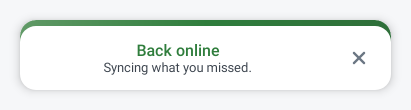
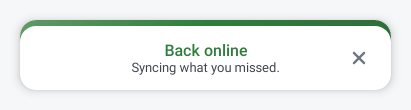
fix: clean up code

Changed region(s): [[0.2336, 0.5455, 0.6715, 0.6818], [0.3212, 0.3818, 0.6131, 0.5182]]

diff --git a/app/src/main/java/com/thecode/sample/CatalogScreen.kt b/app/src/main/java/com/thecode/sample/CatalogScreen.kt
@@ -15,7 +15,10 @@ import androidx.compose.foundation.layout.safeDrawing
 import androidx.compose.foundation.layout.windowInsetsPadding
 import androidx.compose.foundation.lazy.LazyColumn
 import androidx.compose.foundation.lazy.items
+import androidx.compose.foundation.selection.toggleable
 import androidx.compose.material3.Surface
+import androidx.compose.material3.Switch
+import androidx.compose.material3.SwitchDefaults
 import androidx.compose.material3.Text
 import androidx.compose.runtime.Composable
 import androidx.compose.runtime.LaunchedEffect
@@ -25,6 +28,7 @@ import androidx.compose.runtime.remember
 import androidx.compose.runtime.setValue
 import androidx.compose.ui.Alignment
 import androidx.compose.ui.Modifier
+import androidx.compose.ui.semantics.Role
 import androidx.compose.ui.unit.dp
 import com.thecode.aestheticdialogs.components.alert.AestheticAlertDialog
 import com.thecode.aestheticdialogs.components.alert.models.AlertDialogSignal
@@ -71,7 +75,7 @@ private const val LOREM = "Albums are stored on your device and encrypted before
 @Composable
 fun CatalogScreen(
     darkTheme: Boolean,
-    onToggleTheme: () -> Unit,
+    onDarkThemeChange: (Boolean) -> Unit,
     modifier: Modifier = Modifier,
 ) {
     val colors = AestheticDialogsTheme.colors
@@ -114,7 +118,7 @@ fun CatalogScreen(
             verticalArrangement = Arrangement.spacedBy(AestheticSpacing.sm),
         ) {
             item {
-                CatalogHeader(darkTheme = darkTheme, onToggleTheme = onToggleTheme)
+                CatalogHeader(darkTheme = darkTheme, onDarkThemeChange = onDarkThemeChange)
             }
 
             item {
@@ -377,7 +381,7 @@ fun CatalogScreen(
 @Composable
 private fun CatalogHeader(
     darkTheme: Boolean,
-    onToggleTheme: () -> Unit,
+    onDarkThemeChange: (Boolean) -> Unit,
 ) {
     val colors = AestheticDialogsTheme.colors
 
@@ -392,13 +396,50 @@ private fun CatalogHeader(
             style = AestheticDialogsTheme.typography.message,
             color = colors.content.secondary,
         )
-        Box(modifier = Modifier.padding(top = AestheticSpacing.md)) {
-            Pill(
-                label = if (darkTheme) "Dark theme" else "Light theme",
-                selected = true,
-                onClick = onToggleTheme,
+        DarkThemeSwitch(
+            checked = darkTheme,
+            onCheckedChange = onDarkThemeChange,
+            modifier = Modifier.padding(top = AestheticSpacing.md),
+        )
+    }
+}
+
+@Composable
+private fun DarkThemeSwitch(
+    checked: Boolean,
+    onCheckedChange: (Boolean) -> Unit,
+    modifier: Modifier = Modifier,
+) {
+    val colors = AestheticDialogsTheme.colors
+
+    Row(
+        modifier = modifier
+            .toggleable(
+                value = checked,
+                role = Role.Switch,
+                onValueChange = onCheckedChange,
             )
-        }
+            .padding(vertical = AestheticSpacing.sm),
+        verticalAlignment = Alignment.CenterVertically,
+        horizontalArrangement = Arrangement.spacedBy(AestheticSpacing.md),
+    ) {
+        Text(
+            text = "Dark theme",
+            style = AestheticDialogsTheme.typography.itemLabel,
+            color = colors.content.primary,
+        )
+        Switch(
+            checked = checked,
+            onCheckedChange = null,
+            colors = SwitchDefaults.colors(
+                checkedThumbColor = colors.action.onPrimary,
+                checkedTrackColor = colors.action.primary,
+                checkedBorderColor = colors.action.primary,
+                uncheckedThumbColor = colors.content.muted,
+                uncheckedTrackColor = colors.surface.container,
+                uncheckedBorderColor = colors.border.default,
+            ),
+        )
     }
 }
 

diff --git a/aestheticdialogs/src/main/java/com/thecode/aestheticdialogs/primitives/DialogFramePrimitive.kt b/aestheticdialogs/src/main/java/com/thecode/aestheticdialogs/primitives/DialogFramePrimitive.kt
@@ -86,18 +86,16 @@ internal fun DialogFramePrimitive(
         properties = DialogProperties(
             dismissOnBackPress = dismissBehavior.dismissOnBackPress,
             dismissOnClickOutside = dismissBehavior.dismissOnClickOutside,
-            // The library sizes its own surface: platform default width would
-            // clamp every dialog to the Material minimum and defeat the
-            // adaptive buckets below.
+            // The library sizes its own surface; the platform default would clamp
+            // every dialog to the Material minimum.
             usePlatformDefaultWidth = false,
         ),
     ) {
         DialogScrimEffect(scrimAlpha)
 
-        // BoxWithConstraints reports the window the dialog was actually given,
-        // which is the right question to ask: a phone in landscape, a foldable
-        // half-open and a freeform window all answer it correctly, where an
-        // `isTablet` check answers all three wrong.
+        // The constraints report the window the dialog was actually given, which
+        // is the question that has a correct answer on foldables and in freeform
+        // windows.
         BoxWithConstraints {
             val availableWidth = maxWidth
             val availableHeight = maxHeight
@@ -113,9 +111,8 @@ internal fun DialogFramePrimitive(
                 } else {
                     EnterTransition.None
                 },
-                // The caller owns whether the dialog is in the composition, so
-                // by the time an exit could run the node is already gone. See
-                // `docs/ARCHITECTURE.md` for why that trade-off is deliberate.
+                // The caller owns whether the dialog is composed, so by the time
+                // an exit could run the node is already gone.
                 exit = ExitTransition.None,
             ) {
                 Surface(
@@ -129,9 +126,6 @@ internal fun DialogFramePrimitive(
                         },
                     shape = shape,
                     color = containerColor,
-                    // Stated rather than derived from a Material scheme: the
-                    // library owns no `MaterialTheme` and must not read the host
-                    // application's.
                     contentColor = AestheticDialogsTheme.colors.content.primary,
                     tonalElevation = AestheticElevation.none,
                     shadowElevation = AestheticElevation.dialog,
@@ -145,9 +139,9 @@ internal fun DialogFramePrimitive(
                     ) {
                         header?.invoke(this)
 
-                        // `fill = false` lets short content stay short while long
-                        // content is capped and scrolls, keeping the action row
-                        // reachable on a small screen or at a large font size.
+                        // Short content stays short; long content is capped and
+                        // scrolls, so the action row stays reachable at any font
+                        // size.
                         Column(
                             modifier = Modifier
                                 .weight(weight = 1f, fill = false)

diff --git a/aestheticdialogs/src/main/java/com/thecode/aestheticdialogs/tokens/AestheticDimens.kt b/aestheticdialogs/src/main/java/com/thecode/aestheticdialogs/tokens/AestheticDimens.kt
@@ -14,12 +14,10 @@ public object AestheticDimens {
     /** Minimum size of any interactive target, per the Android accessibility guidance. */
     public val minTouchTarget: Dp = 48.dp
 
-    // Controls
     public val buttonHeight: Dp = 48.dp
     public val buttonMinWidth: Dp = 88.dp
     public val fieldHeight: Dp = 56.dp
 
-    // Icons
     public val iconSm: Dp = 16.dp
     public val iconMd: Dp = 24.dp
     public val iconLg: Dp = 32.dp
@@ -30,7 +28,6 @@ public object AestheticDimens {
     /** The compact status glyph used by notification banners. */
     public val statusGlyphCompact: Dp = 32.dp
 
-    // Structure
     public val borderWidth: Dp = 1.dp
 
     /** Thickness of the tone bar down the leading edge of a banner. */
@@ -46,10 +43,9 @@ public object AestheticDimens {
     public val progressIndicatorSize: Dp = 20.dp
     public val progressIndicatorStroke: Dp = 2.dp
 
-    // Adaptive width buckets. The dialog measures the space it was given and
-    // picks a bucket from it, rather than asking the device whether it is a
-    // "tablet": a phone in landscape, a foldable and a freeform window all
-    // resolve correctly this way.
+    // Width buckets are chosen from the space the dialog was given, never from a
+    // device class: a phone in landscape, a foldable and a freeform window all
+    // resolve correctly that way.
     public val breakpointMedium: Dp = 600.dp
     public val breakpointExpanded: Dp = 840.dp
 
@@ -63,4 +59,13 @@ public object AestheticDimens {
 
     /** Minimum height of a notification banner, so a one-line message still reads as a surface. */
     public val bannerMinHeight: Dp = 64.dp
+
+    /**
+     * Width a banner reserves for its trailing affordance.
+     *
+     * Mirrored on the leading edge when a banner centres its copy, so "centred"
+     * means centred in the card rather than in the space left over next to the
+     * close button.
+     */
+    public val bannerAffordanceSlot: Dp = minTouchTarget + AestheticSpacing.sm
 }

diff --git a/aestheticdialogs/src/main/java/com/thecode/aestheticdialogs/primitives/BannerPrimitive.kt b/aestheticdialogs/src/main/java/com/thecode/aestheticdialogs/primitives/BannerPrimitive.kt
@@ -75,8 +75,6 @@ internal fun BannerPrimitive(
             .semantics { liveRegion = liveRegionMode },
         shape = shape,
         color = containerColor,
-        // Stated rather than derived from a Material scheme: the library owns no
-        // `MaterialTheme` and must not read the host application's.
         contentColor = messageColor,
         shadowElevation = AestheticElevation.banner,
     ) {
@@ -124,13 +122,19 @@ internal fun BannerPrimitive(
                         Arrangement.Start
                     },
                 ) {
+                    // Without this mirror the copy centres in the space left of
+                    // the close button rather than in the card.
+                    if (centered && trailing != null) {
+                        Spacer(Modifier.width(AestheticDimens.bannerAffordanceSlot))
+                    }
+
                     leading?.let {
                         it()
                         Spacer(Modifier.width(AestheticSpacing.lg))
                     }
 
                     Column(
-                        modifier = if (centered) Modifier else Modifier.weight(1f),
+                        modifier = Modifier.weight(1f, fill = !centered),
                         horizontalAlignment = if (centered) {
                             Alignment.CenterHorizontally
                         } else {

diff --git a/aestheticdialogs/src/main/java/com/thecode/aestheticdialogs/components/input/variants/InputDialogVariants.kt b/aestheticdialogs/src/main/java/com/thecode/aestheticdialogs/components/input/variants/InputDialogVariants.kt
@@ -122,13 +122,10 @@ private fun InputDialogFrame(
     val focusRequester = remember { FocusRequester() }
     val canConfirm = uiModel.isConfirmEnabled && !uiModel.isConfirming
 
-    // The field is why the dialog exists, so it takes focus and raises the
-    // keyboard as soon as the dialog opens. This also puts the accessibility
-    // focus where the user needs it instead of on the title.
-    //
-    // The frame wait is load-bearing: a FocusRequester throws if it is asked for
-    // focus before its node has been placed, and the dialog's enter transition
-    // makes that race real rather than theoretical.
+    // The field takes focus on open, which is also where accessibility focus
+    // belongs. The frame wait is load-bearing: a FocusRequester throws if asked
+    // for focus before its node is placed, and the enter transition makes that
+    // race real.
     LaunchedEffect(focusRequester) {
         withFrameNanos { }
         runCatching { focusRequester.requestFocus() }

diff --git a/aestheticdialogs/src/main/java/com/thecode/aestheticdialogs/foundation/AestheticDialogsTheme.kt b/aestheticdialogs/src/main/java/com/thecode/aestheticdialogs/foundation/AestheticDialogsTheme.kt
@@ -97,12 +97,6 @@ public fun AestheticDialogsTheme(
     motion: AestheticMotion = AestheticDialogsTheme.defaultMotion(),
     content: @Composable () -> Unit,
 ) {
-    // Four CompositionLocals and nothing else. In particular this does *not*
-    // install a `MaterialTheme`: the composable is meant to be wrapped around an
-    // application, and a library that replaced the host's colour scheme and type
-    // scale for that whole subtree would be restyling code it does not own. The
-    // few Material components the library draws with are passed their colours
-    // explicitly instead — see `TextFieldPrimitive` and `SelectionRowPrimitive`.
     CompositionLocalProvider(
         LocalAestheticColors provides colors,
         LocalAestheticTypography provides typography,

diff --git a/aestheticdialogs/src/main/java/com/thecode/aestheticdialogs/primitives/DialogButtonPrimitive.kt b/aestheticdialogs/src/main/java/com/thecode/aestheticdialogs/primitives/DialogButtonPrimitive.kt
@@ -72,9 +72,8 @@ internal fun DialogButtonPrimitive(
             contentAlignment = Alignment.Center,
         ) {
             if (loading) {
-                // The label is kept in the tree, transparent, so the button does
-                // not change width when it starts loading — a resizing action row
-                // moves the button the user is reaching for.
+                // The label stays in the tree, transparent, so the button keeps
+                // its width and the row does not move under the user's finger.
                 Text(
                     text = label,
                     style = AestheticDialogsTheme.typography.action,

diff --git a/aestheticdialogs/src/main/java/com/thecode/aestheticdialogs/components/notification/variants/NotificationVariants.kt b/aestheticdialogs/src/main/java/com/thecode/aestheticdialogs/components/notification/variants/NotificationVariants.kt
@@ -73,9 +73,7 @@ internal fun NotificationRainbow(
         modifier = modifier,
         liveRegionMode = uiModel.tone.liveRegionMode(),
         leading = {
-            // The banner is already painted in the tone, so the badge inverts:
-            // the disc takes the on-accent colour and the mark takes the accent.
-            // Passing `onAccent` for both is what left the disc empty.
+            // The card already carries the tone, so the badge inverts.
             StatusBadgePrimitive(
                 mark = GlyphMark.forTone(uiModel.tone),
                 accentColor = tone.accent,

diff --git a/aestheticdialogs/src/main/java/com/thecode/aestheticdialogs/tokens/AestheticPalette.kt b/aestheticdialogs/src/main/java/com/thecode/aestheticdialogs/tokens/AestheticPalette.kt
@@ -19,7 +19,6 @@ import androidx.compose.ui.graphics.Color
  */
 internal object AestheticPalette {
 
-    // Neutrals
     val White: Color = Color(0xFFFFFFFF)
     val Grey50: Color = Color(0xFFF6F7F9)
     val Grey100: Color = Color(0xFFEDEFF2)
@@ -32,7 +31,6 @@ internal object AestheticPalette {
     val Grey950: Color = Color(0xFF121316)
     val Black: Color = Color(0xFF000000)
 
-    // Status hues, bright ("on dark") and deep ("on light")
     val GreenBright: Color = Color(0xFF48D865)
     val GreenDeep: Color = Color(0xFF2F7D3C)
     val GreenTintLight: Color = Color(0xFFE6F7EA)

diff --git a/aestheticdialogs/src/test/java/com/thecode/aestheticdialogs/DocsGalleryTest.kt b/aestheticdialogs/src/test/java/com/thecode/aestheticdialogs/DocsGalleryTest.kt
@@ -338,6 +338,15 @@ class DocsGalleryTest {
     }
 
     @Test
+    fun notificationConnectifyLongCopy() = banner("notification-connectify-long") {
+        NotificationUiModel.Connectify(
+            title = "Reconnected to the office network after a long outage",
+            message = "Syncing the twenty-four items that changed while you were away.",
+            tone = DialogTone.Info,
+        )
+    }
+
+    @Test
     fun notificationEmoji() = banner("notification-emoji") {
         NotificationUiModel.Emoji(
             title = "Nice one",

diff --git a/aestheticdialogs/src/main/java/com/thecode/aestheticdialogs/primitives/SelectionRowPrimitive.kt b/aestheticdialogs/src/main/java/com/thecode/aestheticdialogs/primitives/SelectionRowPrimitive.kt
@@ -69,9 +69,6 @@ internal fun SelectionRowPrimitive(
             .padding(horizontal = AestheticSpacing.xxl, vertical = AestheticSpacing.md),
         verticalAlignment = Alignment.CenterVertically,
     ) {
-        // Colours are passed rather than inherited: the library does not install a
-        // `MaterialTheme` over the caller's content, so a control that read one
-        // would pick up the host application's palette instead of the dialog's.
         if (multiSelect) {
             Checkbox(
                 checked = selected,

diff --git a/aestheticdialogs/src/main/java/com/thecode/aestheticdialogs/variants/DialogActionRow.kt b/aestheticdialogs/src/main/java/com/thecode/aestheticdialogs/variants/DialogActionRow.kt
@@ -36,8 +36,8 @@ internal fun DialogActionRow(
 ) {
     if (primary == null && secondary == null) return
 
-    // While one action is running, the other must not be pressable: a dialog
-    // that lets you cancel a half-finished delete is a bug factory.
+    // While one action runs the other must not be pressable: cancelling a
+    // half-finished delete leaves the caller with no defined outcome.
     val busy = primary?.loading == true || secondary?.loading == true
 
     DialogActionsPrimitive(modifier = modifier) {
